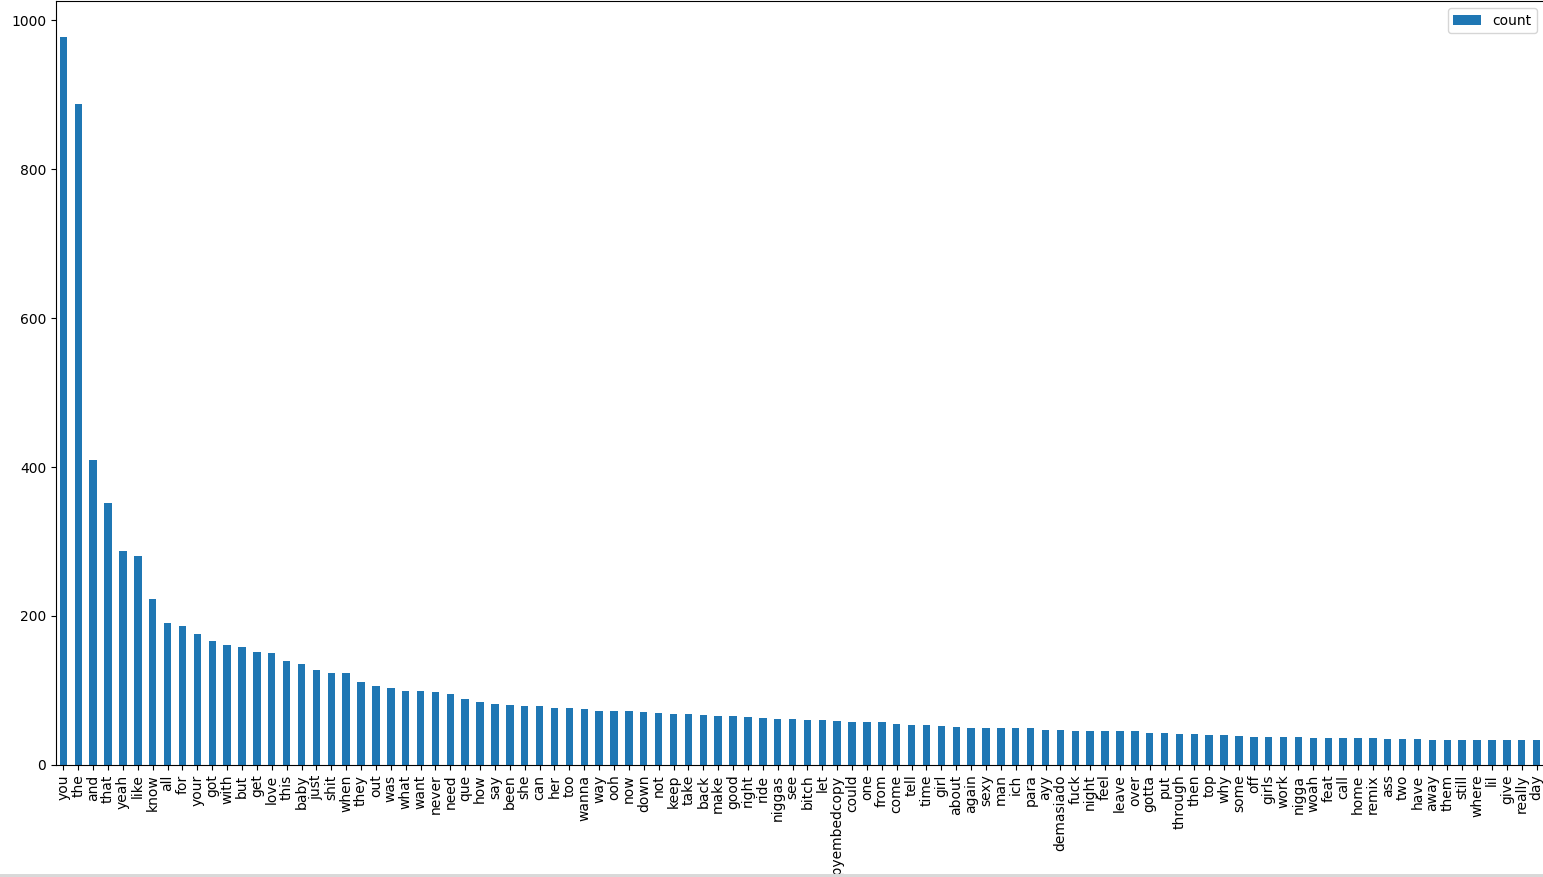
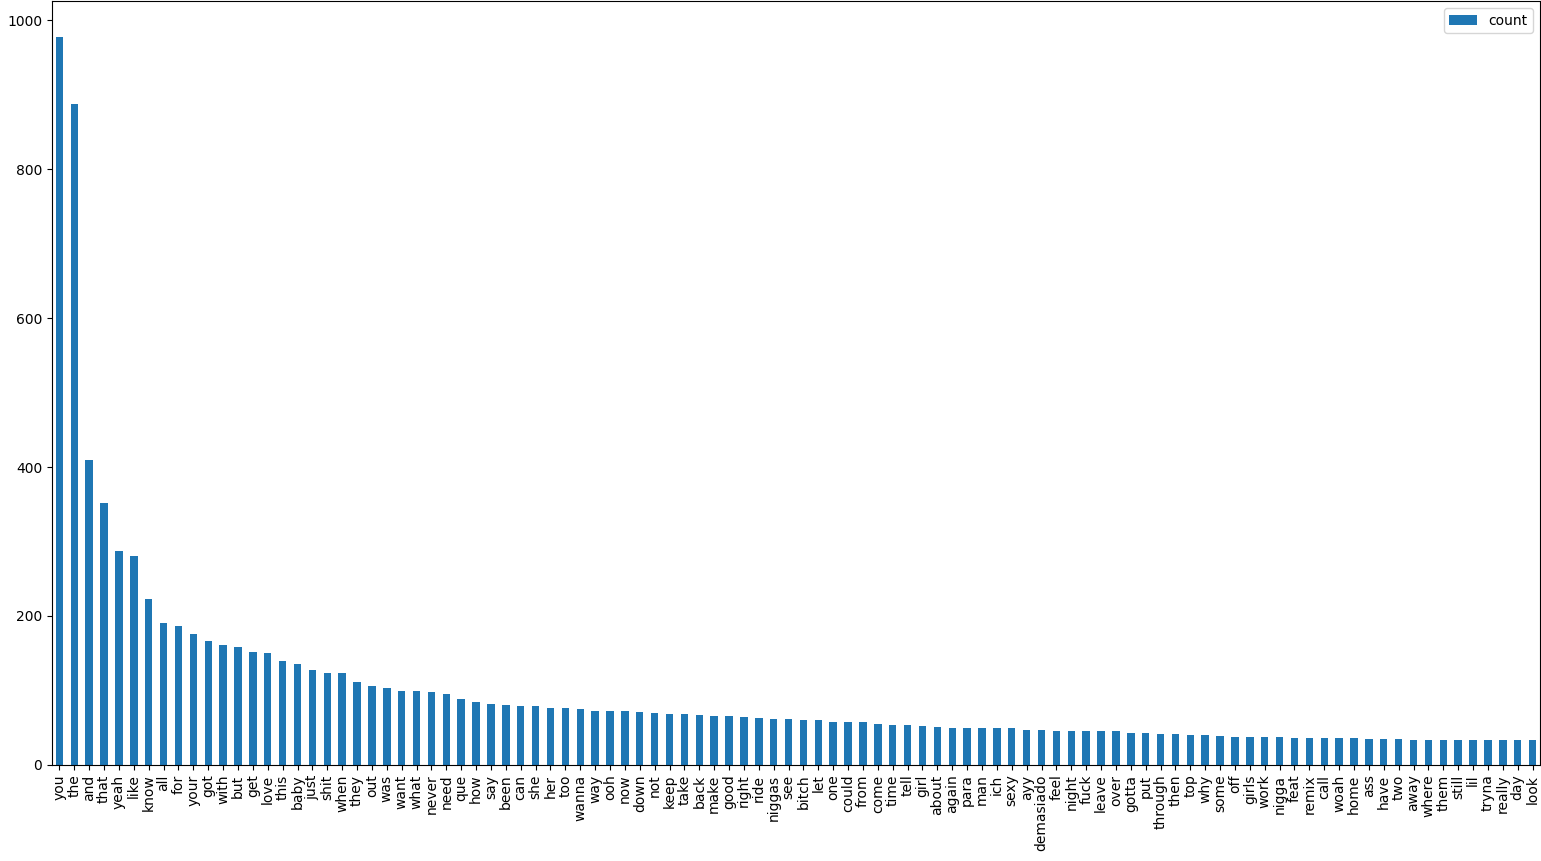
Code refactoring

Changed region(s): [[0.0, 0.0, 1.0, 1.0], [0.0, 0.0, 0.0311, 0.0302]]

diff --git a/main.py b/main.py
@@ -1,12 +1,13 @@
-from typing import Final
+from time import sleep
 from bs4 import BeautifulSoup as bs
+from pandas.core.frame import DataFrame
 import requests
 from idsecret import Token, URLS
 import lyricsgenius as lg
 import os
 import matplotlib.pyplot as plt
-from matplotlib import pyplot
-import pandas as np
+import pandas as pd
+import os
 
 token = Token()
 urls = URLS()
@@ -17,16 +18,7 @@ remove_section_headers = True
 genius = lg.Genius(token.getAccessToken(), skip_non_songs=skip_non_songs, excluded_terms=exclude_terms, remove_section_headers=remove_section_headers)
     
 
-def writeLyrics(chart_map):
-    for artist in chart_map:
-        if artist is None:
-            break
-        with open(os.path.join(urls.getLyricsFolder(), str(artist + '.txt')), 'w') as f:
-            song = genius.search_song(title= chart_map[artist], artist=artist).lyrics
-            f.write(song)
-        f.close()
-
-def getSongs():
+def getSongs() -> dict:
     hot_page = requests.get(urls.getTopUrl())
     hot_page_content = hot_page.content
     soup = bs(hot_page_content, 'html.parser')
@@ -36,43 +28,57 @@ def getSongs():
     for i in chart_table:
         artist = i.find_next('span',class_= 'chart-element__information').find_next('span', class_ = 'chart-element__information__song text--truncate color--primary').contents
         song = i.find_next('span',class_= 'chart-element__information').find_next('span', class_ = 'chart-element__information__artist text--truncate color--secondary').contents
-        # print(artist, song)
         chart_map[artist.pop(0)] = song.pop(0)
-
-    # for entry in chart_map:
-    #     print(chart_map[entry],':' ,entry)
 
     return chart_map
 
-words = {}
-count = 0
-some_list = os.listdir(urls.getLyricsFolder())
-unwanted_cahrs = '.,-()"'
-for song in some_list:
-    with open(os.path.join(urls.getLyricsFolder(),song), 'r') as f:
-        data = f.read()
-        text = data.split()
-        for raw_word in text:
-            word = raw_word.strip(unwanted_cahrs).lower()
-            if word.isalnum() and len(word)>2 and word is not None:
-                if word not in words:
-                    words[word] = 0
-                else:
-                    words[word] += 1
-    f.close()
+# Recives a map of [artist]song type and finds lyrics for all available songs in the genius API
+def writeLyrics(chart_map):
+    for artist in chart_map:
+        if artist is None:
+            break
+        with open(os.path.join(urls.getLyricsFolder(), str(artist + '.txt')), 'w') as f:
+            song = genius.search_song(title= chart_map[artist], artist=artist).lyrics
+            f.write(song)
+        f.close()
 
-names = list(words.keys())
-values = list(words.values())
+# Recives a folder with the lyrics text files (Test needed) and maps the number of occurrences in these files 
+# And then
+# Recives a map of type [word]occurrences and plots the data via bar diagram
+# tol is how many words to display on the graph
+def printDataBar(tol = 100, printData = True)-> DataFrame:
+    words = {}
+    lyrics_files = os.listdir(urls.getLyricsFolder())
+    unwanted_chars = '.,-()"'
+    for song in lyrics_files:
+        with open(os.path.join(urls.getLyricsFolder(),song), 'r') as f:
+            data = f.read()
+            text = data.split()
+            for raw_word in text:
+                word = raw_word.strip(unwanted_chars).lower()
+                if word.isalnum() and len(word)>2 and word is not None and word not in urls.toIgnore():
+                    if word not in words:
+                        words[word] = 0
+                    else:
+                        words[word] += 1
+        f.close()
+    df = pd.Series(words).to_frame('count')
+    df = df.sort_values(by=['count'], ascending=False)
+    df = df[df['count']>10]
+    pd.set_option('display.max_rows', df.shape[0]+1)
+    if printData is True:
+        df = df[:tol]
+        df.plot(kind = 'bar')
+        plt.show()
+    else:
+        print(df)
+
+    return df
+
+if __name__ == "__main__":
+    songs = getSongs() # Gets the song
+    writeLyrics(songs) # Gets the lyrics for each song
+    printDataBar() # Prints the bar graph
+    printDataBar(printData=False) # Prints the DataFrame
 
 
-df = np.Series(words).to_frame('count')
-df = df.sort_values(by=['count'], ascending=False)
-df = df[df['count']>10]
-np.set_option('display.max_rows', df.shape[0]+1)
-
-print(df)
-
-df = df[:100]
-df.plot(kind = 'bar')
-plt.show()
-plt.savefig('BillboardGraph.png')

diff --git a/README.md b/README.md
@@ -1,1 +1,12 @@
+# Description :100 hits and words in them
+## I was given a challenge by a friend:
+## The goal of the challenge was to get the 100 top pop hits and show the occurence of the 100 most used words in the these songs
+
+<br>
+
+# Here is the graph
 ![alt text](BillboardGraph.png "BillboardGraph")
+
+# license
+I hold no license over the chart information <br>
+You could use the code as you please
